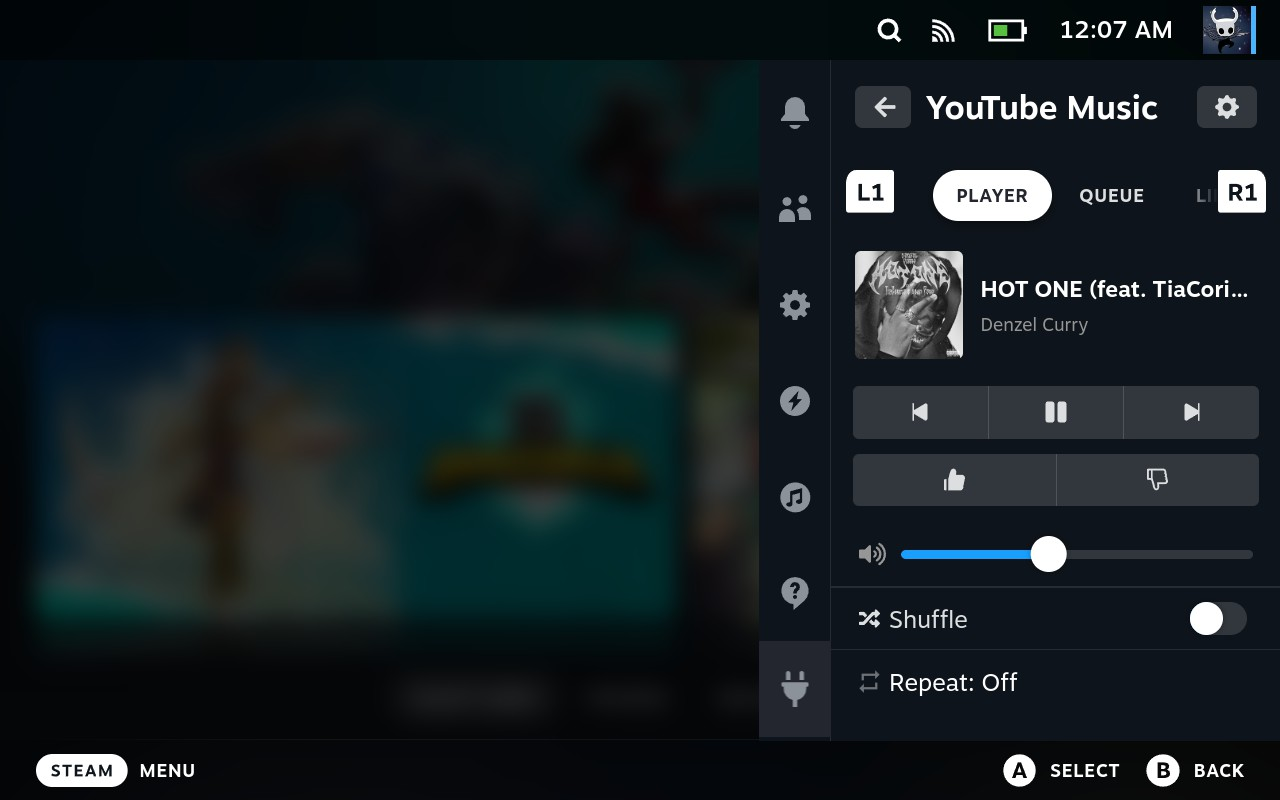
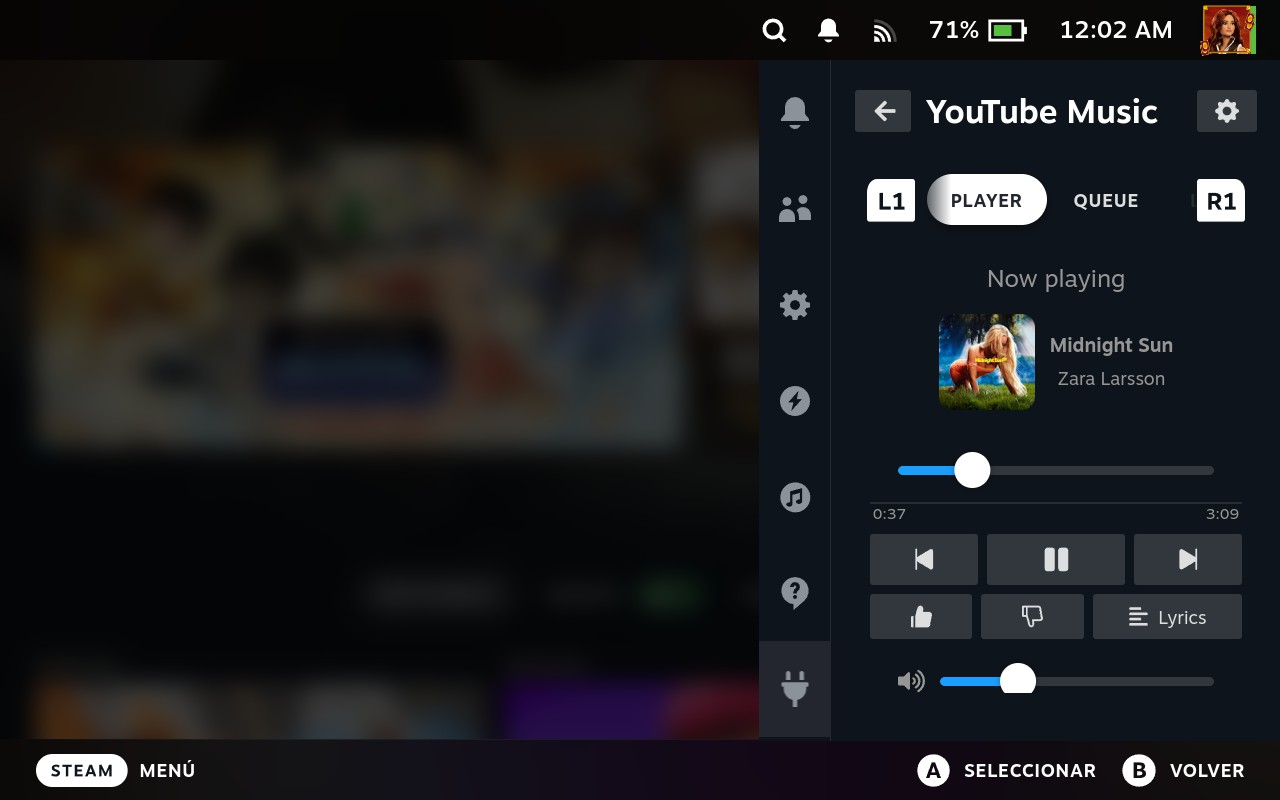
Update English README screenshots and credits

diff --git a/README.md b/README.md
@@ -21,9 +21,13 @@ The current stable version is **0.6.1**. Most users should install the ZIP attac
 
 ![Player](screenshots/player.jpeg)
 
+![Player with Cast](screenshots/player-cast.jpeg)
+
+![Player options](screenshots/player-options.jpeg)
+
 ![Queue](screenshots/queue.jpeg)
 
-![Library](screenshots/library.jpeg)
+![Lyrics](screenshots/lyrics.jpeg)
 
 ## Quick installation
 
@@ -115,6 +119,8 @@ This project combines and adapts ideas and code from:
 - [yt-cast-receiver](https://www.npmjs.com/package/yt-cast-receiver): Node implementation of the Cast protocol.
 - [ytmusicapi](https://github.com/sigma67/ytmusicapi): unofficial YouTube Music client.
 - [yt-dlp](https://github.com/yt-dlp/yt-dlp): stream extractor.
+
+Project development and integration were completed with assistance from **Codex by ChatGPT**. **Google Gemini** was used as a secondary consultation resource.
 
 This repository's implementation is released under BSD-3-Clause. Dependencies retain their own licenses. GitHub Actions runs typechecking, builds, and Python/Node tests on every push and pull request.
 
